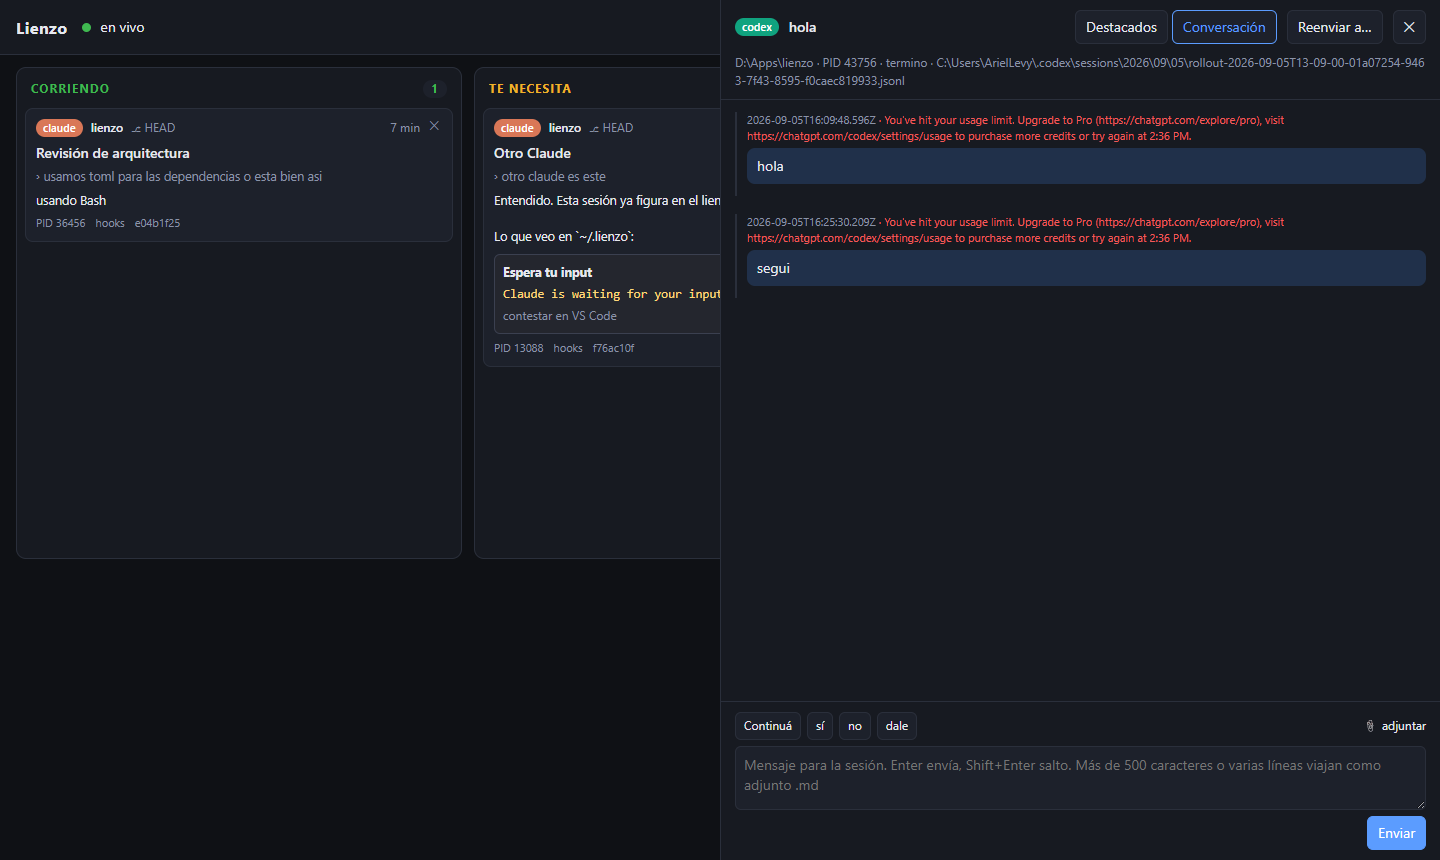
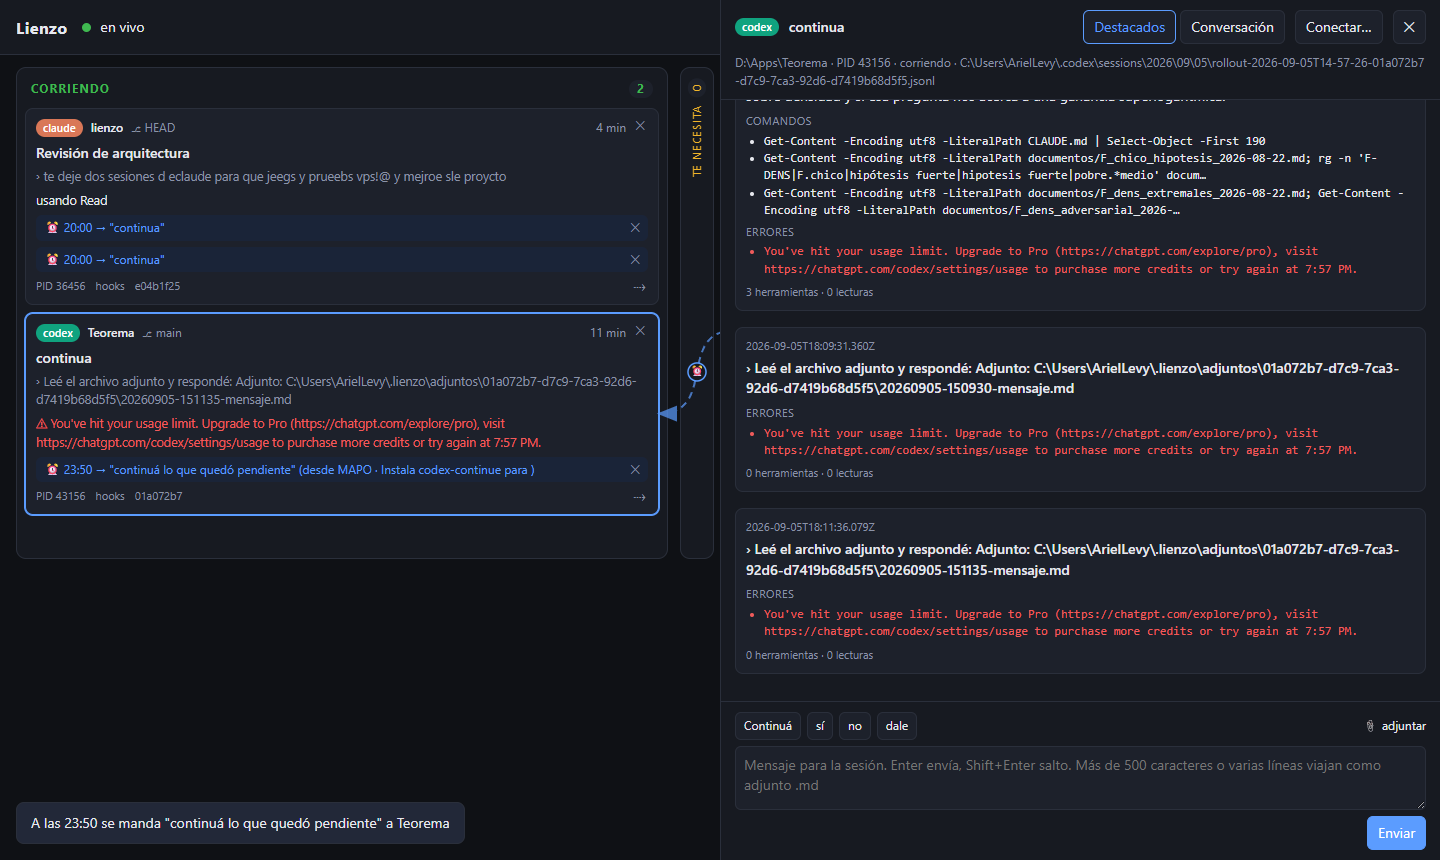
Canal nativo Claude<->Claude como cuarto modo; flecha doble; digest muestra SendMessage
La tarjeta muestra el contenido del adjunto en vez del envoltorio "Leé el archivo adjunto".
Reglas programadas conservan el origen y se dibujan punteadas con reloj.

Claude-Session: https://claude.ai/code/session_01U8JYzvTFJ2Fhdbfi6x9HM2

diff --git a/web/src/components/Forward.tsx b/web/src/components/Forward.tsx
@@ -1,11 +1,19 @@
 import { useEffect, useMemo, useState } from "react";
-import { api } from "../api";
+import { ago, api } from "../api";
 import { parseConnection } from "../nl";
 import type { DigestResponse, Session } from "../types";
 
 const DEFAULT_TEMPLATE = "Mensaje de {repo} ({agente}) sobre '{titulo}':\n{respuesta}";
 const KEY = "lienzo.forward.template";
-type Mode = "now" | "on_stop" | "at";
+type Mode = "now" | "on_stop" | "at" | "native";
+
+/** Instruccion que se le inyecta a A para que abra el canal nativo de Claude Code con B.
+ *  Los nombres internos (lienzo-04, demo-bf) no se pueden mapear desde afuera: A los resuelve
+ *  con ListAgents a partir del repo y el titulo de B. */
+function nativeInstruction(b: Session, text: string): string {
+  const who = b.title ? `"${b.title}" (repo ${b.repo})` : `repo ${b.repo}`;
+  return `Abrí un canal con otra sesión de Claude Code de esta máquina. Usá ListAgents y ubicá la sesión que corresponde a ${who}, que arrancó hace ${ago(b.started)}; no sos vos. Mandale con SendMessage lo siguiente y seguí la conversación por ese mismo canal (respondiéndole con SendMessage) hasta cerrar el tema; al final resumime acá qué quedó: ${text}`;
+}
 
 function loadTemplate(): string {
   try {
@@ -56,6 +64,7 @@ export function Forward({ from, others, initialTarget, toast, onDone }: Props) {
   const [reply, setReply] = useState(from.last_reply || "");
   const [text, setText] = useState(() => fill(loadTemplate(), from, from.last_reply || ""));
   const [atText, setAtText] = useState("Continuá");
+  const [nativeText, setNativeText] = useState("");
   const [hhmm, setHhmm] = useState(() => {
     const d = new Date(Date.now() + 60 * 60 * 1000);
     return `${String(d.getHours()).padStart(2, "0")}:${String(d.getMinutes()).padStart(2, "0")}`;
@@ -105,6 +114,15 @@ export function Forward({ from, others, initialTarget, toast, onDone }: Props) {
           from: from.session_id,
         });
         toast(`Enviado a ${targetSession.repo} (${r.chars} caracteres)`);
+      } else if (mode === "native") {
+        // se le habla a A (esta sesion) para que abra el canal con B; la flecha doble es A <-> B
+        await api.post(`/sessions/${from.session_id}/send`, {
+          text: nativeInstruction(targetSession, nativeText),
+          attachments: [],
+          link_to: targetSession.session_id,
+          native: true,
+        });
+        toast(`${from.repo} va a abrir el canal con ${targetSession.repo}`);
       } else if (mode === "on_stop") {
         await api.post("/rules", {
           kind: "on_stop",
@@ -121,7 +139,9 @@ export function Forward({ from, others, initialTarget, toast, onDone }: Props) {
           toast("Hora inválida", true);
           return;
         }
-        await api.post("/rules", { kind: "at", from: null, to: targetSession.session_id, text: atText, at });
+        // el origen queda registrado (si no es la misma sesion) para dibujar la flecha A -> B
+        const src = targetSession.session_id === from.session_id ? null : from.session_id;
+        await api.post("/rules", { kind: "at", from: src, to: targetSession.session_id, text: atText, at });
         toast(`A las ${hhmm} se manda "${atText}" a ${targetSession.repo}`);
       }
       onDone();
@@ -190,10 +210,16 @@ export function Forward({ from, others, initialTarget, toast, onDone }: Props) {
         <label className={mode === "at" ? "on" : ""}>
           <input type="radio" checked={mode === "at"} onChange={() => setMode("at")} /> A una hora
         </label>
+        {from.agent === "claude" && targetSession?.agent === "claude" && (
+          <label className={mode === "native" ? "on" : ""} title="las dos son Claude Code: pueden hablarse entre sí con SendMessage">
+            <input type="radio" checked={mode === "native"} onChange={() => setMode("native")} /> ⇄ Canal nativo
+          </label>
+        )}
       </div>
 
       <div className="small dim">
         {mode === "now" && "Manda ya la última respuesta de esta sesión a la otra, como si la tipearas ahí."}
+        {mode === "native" && "Las dos son Claude Code: esta sesión ubica a la otra con ListAgents y le habla con SendMessage. Los mensajes llegan aunque la otra esté trabajando, y se responden por el mismo canal. Vos les das el tema; ellas conversan."}
         {mode === "on_stop" && "Cada vez que esta sesión cierre un turno, su respuesta final se manda a la otra con la plantilla. Una vez, o hasta un tope."}
         {mode === "at" && "A la hora indicada se manda un texto fijo a la sesión elegida (puede ser esta misma). Sirve para el \"Continuá\" cuando vuelven los créditos."}
       </div>
@@ -214,7 +240,14 @@ export function Forward({ from, others, initialTarget, toast, onDone }: Props) {
             </select>
           </div>
 
-          {mode === "at" ? (
+          {mode === "native" ? (
+            <textarea
+              value={nativeText}
+              onChange={(e) => setNativeText(e.target.value)}
+              rows={4}
+              placeholder="El tema de la conversación. Ej: “Revisá lo que hizo la otra sesión en web/src y acordá con ella los cambios; que ella los aplique.”"
+            />
+          ) : mode === "at" ? (
             <div className="row">
               <span className="small dim">Hora</span>
               <input type="time" value={hhmm} onChange={(e) => setHhmm(e.target.value)} />
@@ -246,12 +279,20 @@ export function Forward({ from, others, initialTarget, toast, onDone }: Props) {
 
           <div className="row">
             <span className="small dim">
-              {mode === "now" ? "Si supera 500 caracteres viaja como adjunto .md" : "La regla se ve como flecha punteada; click en el círculo la quita"}
+              {mode === "now"
+                ? "Si supera 500 caracteres viaja como adjunto .md"
+                : mode === "native"
+                  ? "Queda una flecha doble entre las dos; el digest muestra los mensajes que se cruzan"
+                  : "La regla se ve como flecha punteada; click en el círculo la quita"}
             </span>
             <span className="sp" />
             <button onClick={onDone}>Cancelar</button>
-            <button className="primary" disabled={busy || !targetSession || (mode === "now" && !text.trim()) || (mode === "at" && !atText.trim())} onClick={submit}>
-              {mode === "now" ? "Enviar ahora" : mode === "on_stop" ? "Conectar" : "Programar"}
+            <button
+              className="primary"
+              disabled={busy || !targetSession || (mode === "now" && !text.trim()) || (mode === "at" && !atText.trim()) || (mode === "native" && !nativeText.trim())}
+              onClick={submit}
+            >
+              {mode === "now" ? "Enviar ahora" : mode === "on_stop" ? "Conectar" : mode === "native" ? "Abrir canal" : "Programar"}
             </button>
           </div>
         </>

diff --git a/web/src/components/Arrows.tsx b/web/src/components/Arrows.tsx
@@ -13,7 +13,7 @@ interface Props {
 
 interface Seg {
   id: string;
-  kind: "link" | "rule";
+  kind: "link" | "rule" | "native";
   d: string;
   x: number;
   y: number;
@@ -57,12 +57,23 @@ export function Arrows({ links, rules, boardRef, deps, onDelete, onDeleteRule }:
     };
     for (const l of links) {
       const p = path(l.from, l.to);
-      if (p) out.push({ id: l.id, kind: "link", ...p, glyph: "↪", title: `reenvío hace ${ago(l.ts)}\n${l.text}\n(click para quitar la flecha)` });
+      if (!p) continue;
+      if (l.kind === "native") {
+        out.push({ id: l.id, kind: "native", ...p, glyph: "⇄", title: `canal nativo Claude↔Claude abierto hace ${ago(l.ts)}\n${l.text}\n(click para quitar la flecha)` });
+      } else {
+        out.push({ id: l.id, kind: "link", ...p, glyph: "↪", title: `reenvío hace ${ago(l.ts)}\n${l.text}\n(click para quitar la flecha)` });
+      }
     }
     for (const r of rules) {
-      if (!r.enabled || r.kind !== "on_stop" || !r.from || r.from === r.to) continue;
+      if (!r.enabled || !r.from || r.from === r.to) continue;
       const p = path(r.from, r.to);
-      if (p) out.push({ id: r.id, kind: "rule", ...p, glyph: "⏹", title: `cuando termine → manda su respuesta${r.repeat ? ` (${r.fired}/${r.max_fires})` : " (una vez)"}\n(click para quitar la conexión)` });
+      if (!p) continue;
+      if (r.kind === "on_stop") {
+        out.push({ id: r.id, kind: "rule", ...p, glyph: "⏹", title: `cuando termine → manda su respuesta${r.repeat ? ` (${r.fired}/${r.max_fires})` : " (una vez)"}\n(click para quitar la conexión)` });
+      } else {
+        const t = r.at ? new Date(r.at).toLocaleTimeString([], { hour: "2-digit", minute: "2-digit", hour12: false }) : "?";
+        out.push({ id: r.id, kind: "rule", ...p, glyph: "⏰", title: `a las ${t} → "${r.text}"\n(click para quitar la conexión)` });
+      }
     }
     setSegs(out);
   };
@@ -87,14 +98,18 @@ export function Arrows({ links, rules, boardRef, deps, onDelete, onDeleteRule }:
         <marker id="arrowhead" markerWidth="10" markerHeight="8" refX="9" refY="4" orient="auto">
           <path d="M0,0 L10,4 L0,8 z" fill="var(--acc)" />
         </marker>
+        <marker id="arrowtail" markerWidth="10" markerHeight="8" refX="1" refY="4" orient="auto">
+          <path d="M10,0 L0,4 L10,8 z" fill="var(--acc)" />
+        </marker>
       </defs>
       {segs.map((s) => (
         <g key={s.id} className="arrow">
-          <path d={s.d} className={`line ${s.kind}`} markerEnd="url(#arrowhead)" />
+          {s.kind === "native" && <path d={s.d} className="line native-outer" />}
+          <path d={s.d} className={`line ${s.kind}`} markerEnd="url(#arrowhead)" markerStart={s.kind === "native" ? "url(#arrowtail)" : undefined} />
           <g
             onClick={() => {
-              if (!confirm(s.kind === "link" ? "Quitar la flecha?" : "Quitar la conexión?")) return;
-              (s.kind === "link" ? onDelete : onDeleteRule)(s.id);
+              if (!confirm(s.kind === "rule" ? "Quitar la conexión?" : "Quitar la flecha?")) return;
+              (s.kind === "rule" ? onDeleteRule : onDelete)(s.id);
             }}
           >
             <title>{s.title}</title>

diff --git a/web/src/components/Card.tsx b/web/src/components/Card.tsx
@@ -9,8 +9,9 @@ function ruleLabel(r: Rule, sid: string, sessions: Record<string, Session>): str
     return o.title ? `${o.repo} · ${o.title.slice(0, 28)}` : `${o.repo} · ${o.session_id.slice(0, 8)}`;
   };
   if (r.kind === "at") {
-    const t = r.at ? new Date(r.at).toLocaleTimeString([], { hour: "2-digit", minute: "2-digit" }) : "?";
-    return r.to === sid ? `⏰ ${t} → "${r.text}"` : `⏰ ${t} → "${r.text}" a ${other(r.to)}`;
+    const t = r.at ? new Date(r.at).toLocaleTimeString([], { hour: "2-digit", minute: "2-digit", hour12: false }) : "?";
+    if (r.to === sid) return r.from && r.from !== sid ? `⏰ ${t} → "${r.text}" (desde ${other(r.from)})` : `⏰ ${t} → "${r.text}"`;
+    return `⏰ ${t} → "${r.text}" a ${other(r.to)}`;
   }
   const count = r.repeat ? ` (${r.fired}/${r.max_fires})` : "";
   return r.from === sid ? `⏹ al terminar → ${other(r.to)}${count}` : `⏹ recibe de ${other(r.from)} al terminar${count}`;

diff --git a/web/src/styles.css b/web/src/styles.css
@@ -133,6 +133,9 @@ button:disabled { opacity: .45; cursor: not-allowed; }
 .card .rule .del { margin-left: auto; cursor: pointer; color: var(--dim); }
 .card .rule .del:hover { color: var(--dead); }
 .arrows .line.rule { stroke-dasharray: 7 5; opacity: .7; }
+/* canal nativo Claude<->Claude: doble linea gruesa con punta en los dos extremos */
+.arrows .line.native-outer { stroke: var(--acc); stroke-width: 7; opacity: .35; }
+.arrows .line.native { stroke-width: 2.5; opacity: 1; }
 .panel .ph button.on { border-color: var(--acc); color: var(--acc); }
 
 .gate { position: fixed; inset: 0; background: rgba(8, 10, 14, .85); display: flex; align-items: center; justify-content: center; z-index: 30; padding: 16px; }

diff --git a/web/src/components/Digest.tsx b/web/src/components/Digest.tsx
@@ -46,6 +46,12 @@ export function Digest({ turn: t }: { turn: DigestTurn }) {
           {list(t.questions)}
         </>
       )}
+      {(t.peers?.length ?? 0) > 0 && (
+        <>
+          <div className="k">mensajes a otras sesiones</div>
+          {list(t.peers!)}
+        </>
+      )}
       <div className="stats">
         {t.tools} herramientas · {t.reads} lecturas
         {t.subagents ? ` · ${t.subagents} líneas de subagente` : ""}

diff --git a/web/src/types.ts b/web/src/types.ts
@@ -76,6 +76,7 @@ export interface DigestTurn {
   commands: string[];
   errors: string[];
   questions: string[];
+  peers?: string[];
   reads: number;
   subagents: number;
   tools: number;
@@ -99,6 +100,7 @@ export interface Link {
   to: string;
   ts: string;
   text: string;
+  kind?: "send" | "native";
 }
 
 export interface Rule {

diff --git a/lienzo/server.py b/lienzo/server.py
@@ -165,6 +165,26 @@ def repo_of(cwd: str | None) -> str:
     return os.path.basename((cwd or "").rstrip("\\/")) or "?"
 
 
+ATTACH_WRAPPER = "Leé el archivo adjunto y respondé:"
+
+
+def unwrap_attachment(prompt: str) -> str:
+    """Un texto largo viaja como 'Leé el archivo adjunto y respondé: Adjunto: <ruta>'. En la
+    tarjeta se muestra el contenido del adjunto, no el envoltorio."""
+    p = (prompt or "").strip()
+    if not p.startswith(ATTACH_WRAPPER):
+        return prompt
+    for part in p.split("Adjunto: ")[1:]:
+        path = part.strip().split(" Adjunto: ")[0].strip()
+        if path.lower().endswith(".md") and os.path.isfile(path):
+            try:
+                with open(path, encoding="utf-8") as f:
+                    return f.read(600)
+            except OSError:
+                pass
+    return prompt
+
+
 def tool_detail(tool_name: str | None, tool_input) -> str:
     if not isinstance(tool_input, dict):
         return short(str(tool_input or ""), 200)
@@ -180,8 +200,9 @@ def save_session(s: dict) -> None:
     atomic_write(os.path.join(SESSIONS, f"{s['session_id']}.json"), json.dumps(s, ensure_ascii=False, indent=1))
 
 
-def add_link(src: str, dst: str, text: str) -> None:
-    links.add({"id": secrets.token_hex(6), "from": src, "to": dst, "ts": now(), "text": short(text, 160)})
+def add_link(src: str, dst: str, text: str, kind: str = "send") -> None:
+    """kind: send (inyeccion) | native (canal Claude<->Claude por SendMessage)."""
+    links.add({"id": secrets.token_hex(6), "from": src, "to": dst, "ts": now(), "text": short(text, 160), "kind": kind})
 
 
 # --- reglas: "cuando termine" y "a una hora" ------------------------------------------
@@ -389,7 +410,7 @@ def apply_event(ev: dict) -> None:
         elif name == "UserPromptSubmit":
             set_state(s, "corriendo")
             if not transcripts.is_system_prompt(ev.get("prompt", "")):
-                s["last_prompt"] = short(ev.get("prompt", ""), 500)
+                s["last_prompt"] = short(unwrap_attachment(ev.get("prompt", "")), 500)
             s["pending_id"] = None
         elif name == "Stop":
             set_state(s, "termino")
@@ -976,9 +997,13 @@ class Handler(BaseHTTPRequestHandler):
                 if parts[2] == "send":
                     d = self._json_body()
                     code, res = send_to_session(s, d.get("text", ""), list(d.get("attachments") or []))
-                    src = d.get("from")
-                    if code == 200 and src and src in sessions and src != s["session_id"]:
-                        add_link(src, s["session_id"], d.get("text", ""))
+                    src, link_to = d.get("from"), d.get("link_to")
+                    kind = "native" if d.get("native") else "send"
+                    if code == 200 and link_to and link_to in sessions and link_to != s["session_id"]:
+                        # canal nativo: se le habla a A para que abra conversacion con B; la flecha es A -> B
+                        add_link(s["session_id"], link_to, d.get("text", ""), kind)
+                    elif code == 200 and src and src in sessions and src != s["session_id"]:
+                        add_link(src, s["session_id"], d.get("text", ""), kind)
                     return self._json(code, res)
                 if parts[2] == "attach":
                     name = urllib.parse.unquote(self.headers.get("X-Filename") or "adjunto.bin")

diff --git a/lienzo/transcripts.py b/lienzo/transcripts.py
@@ -366,6 +366,7 @@ def turns(agent: str, path: str, n: int = 10, before: str | None = None, max_byt
 
 def digest_turn(turn: dict) -> dict:
     files, commands, errors, questions, reads = [], [], [], [], 0
+    peers: list[str] = []
     subagents = 0
     for b in turn["blocks"]:
         k = b["kind"]
@@ -392,6 +393,13 @@ def digest_turn(turn: dict) -> dict:
             for q in inp.get("questions") or []:
                 if isinstance(q, dict) and q.get("question"):
                     questions.append(q["question"])
+        elif name in ("SendMessage", "ListAgents"):
+            # canal nativo Claude<->Claude: a quien le hablo
+            to = inp.get("to") or inp.get("recipient")
+            if to:
+                peers.append(f"→ {to}: {_first_line(str(inp.get('message') or inp.get('content') or ''), 100)}")
+            elif name == "ListAgents":
+                peers.append("ListAgents")
         if res and res.get("is_error"):
             errors.append(f"{name}: {_first_line(res.get('text', ''))}")
     final = (turn.get("final") or "").strip()
@@ -407,7 +415,7 @@ def digest_turn(turn: dict) -> dict:
         "prompt": turn.get("prompt", ""),
         "final": _short(final, 600),
         "files": files, "commands": commands[:20], "errors": errors[:10],
-        "questions": questions, "reads": reads, "subagents": subagents,
+        "questions": questions, "peers": peers[:10], "reads": reads, "subagents": subagents,
         "tools": sum(1 for b in turn["blocks"] if b["kind"] == "tool"),
     }
 
